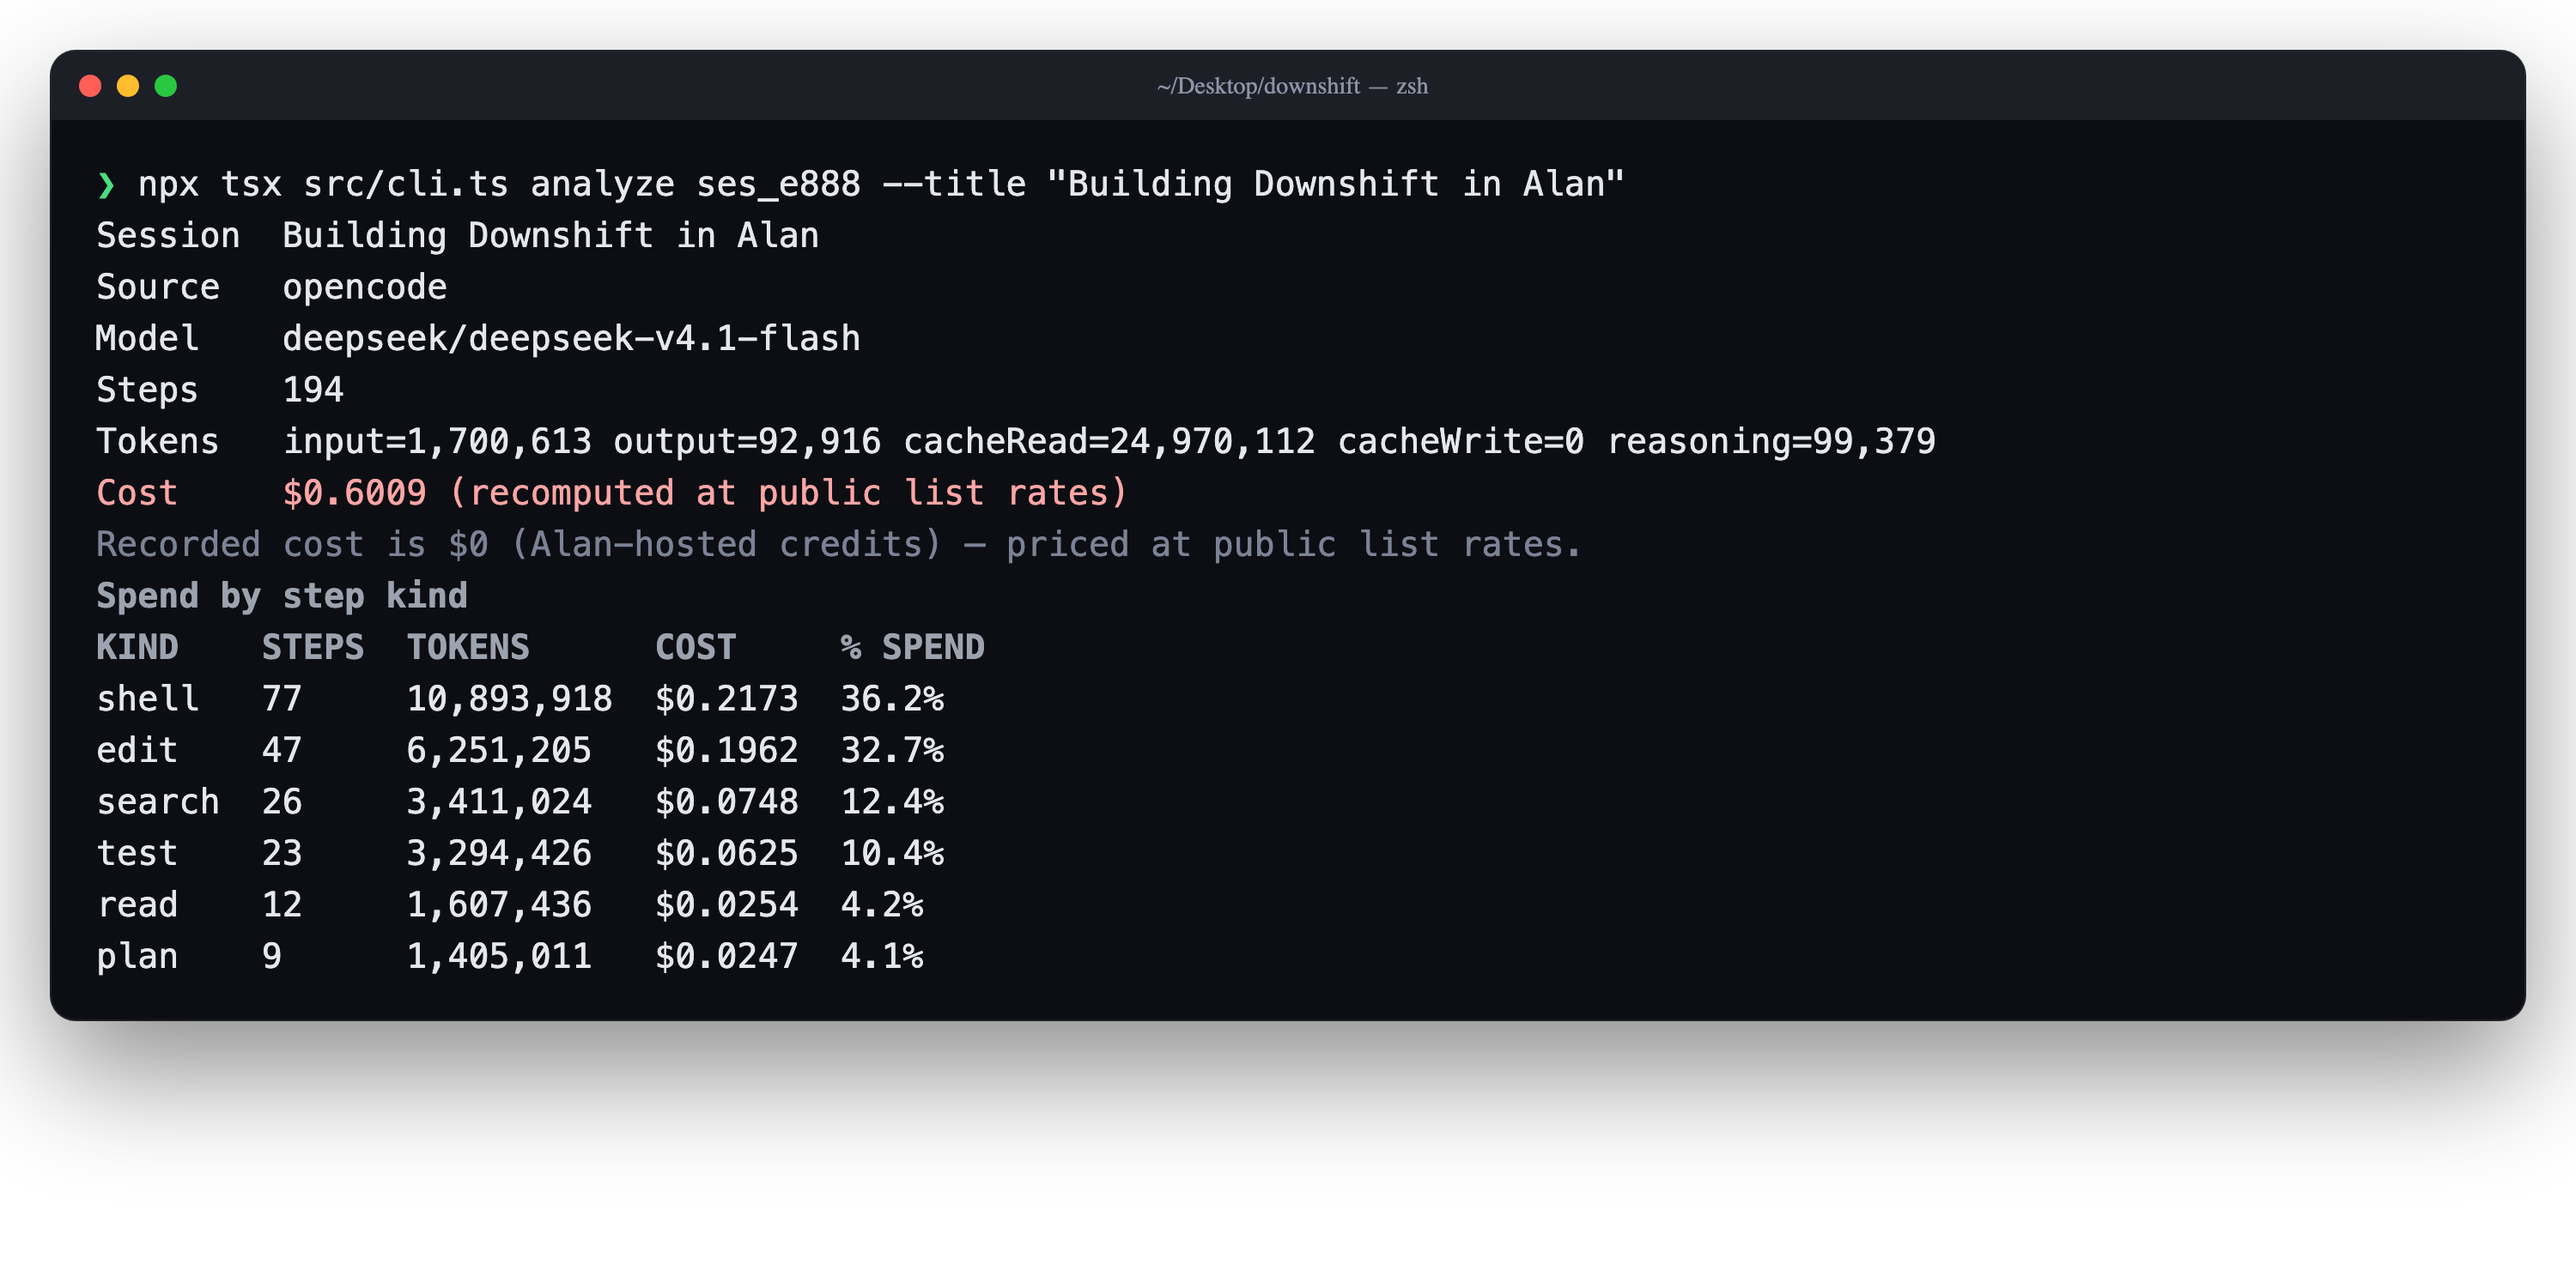
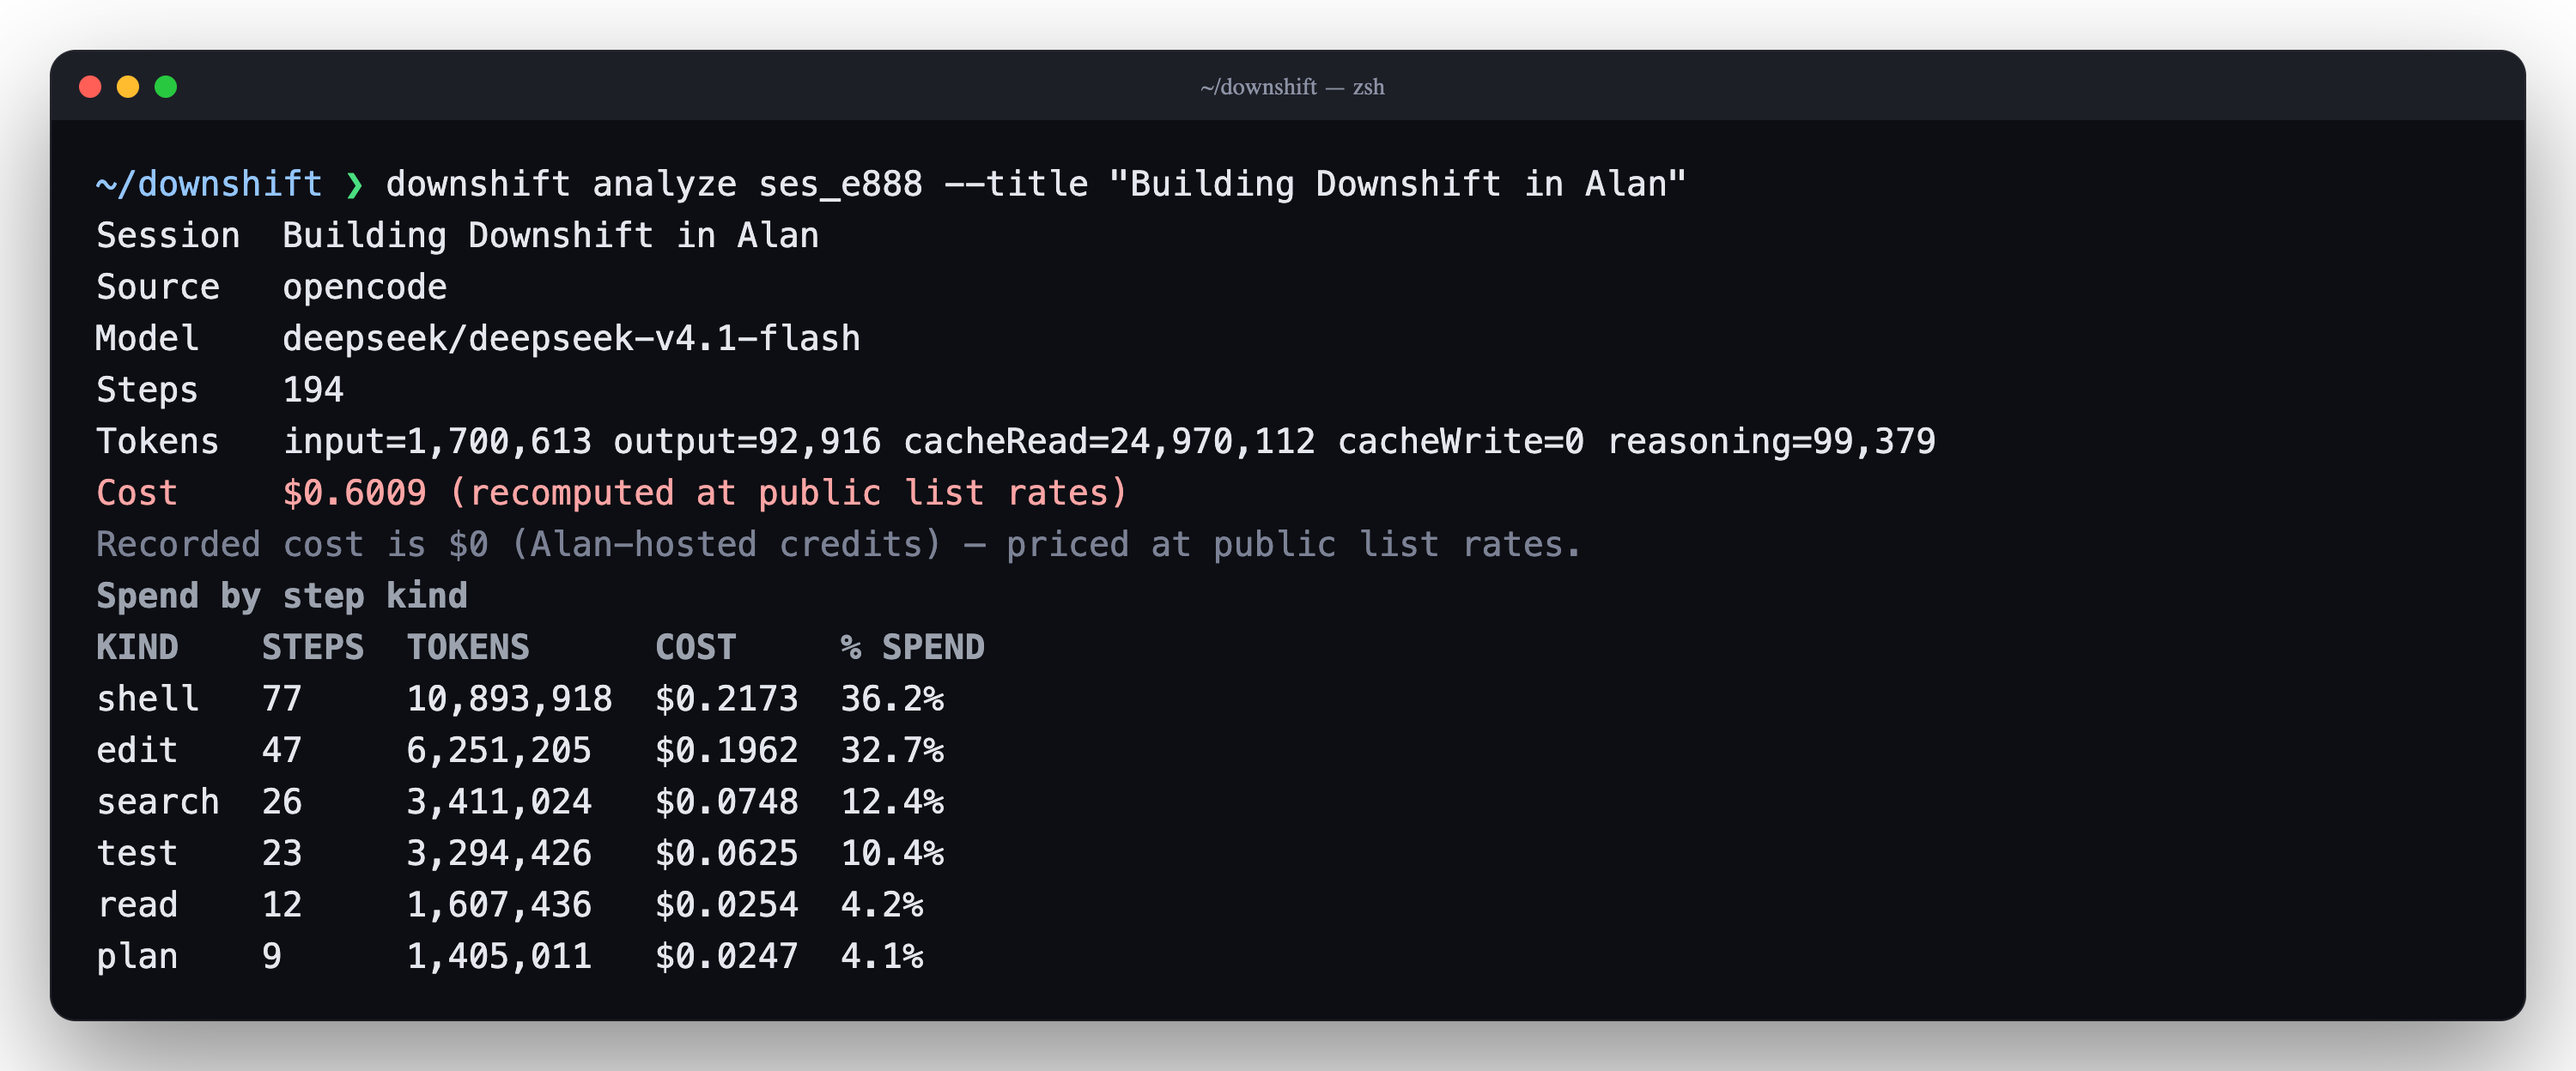
docs: add architecture diagram and more screenshots to README
Replace the ASCII pipeline with an architecture diagram, add a stage
table and the core data model, and add speedscope, replay matrix,
policy and bench screenshots to Results. The terminal screenshot now
shows `downshift analyze` instead of the wrong `npx downshift` command.

Changed region(s): [[0.0, 0.125, 1.0, 1.0], [0.0, 0.0312, 0.992, 0.0938]]

diff --git a/README.md b/README.md
@@ -8,6 +8,15 @@
   <img src="https://img.shields.io/badge/spend-%240-brightgreen" alt="Spend $0">
 </p>
 
+<p align="center">
+  <a href="#demo">Demo</a> ·
+  <a href="#try-it-in-60-seconds">Quickstart</a> ·
+  <a href="#architecture">Architecture</a> ·
+  <a href="#results">Results</a> ·
+  <a href="#commands">Commands</a> ·
+  <a href="#development">Development</a>
+</p>
+
 Downshift finds the steps in a coding-agent session that an open model can
 handle, then proves it by replaying them.
 
@@ -55,37 +64,21 @@ npx github:sakshar2303/downshift analyze latest:alan   # Alan Code
 The `downshift` name on npm belongs to an unrelated React library. Use the
 commands above.
 
-![Cost report](docs/assets/report.png)
+<p align="center"><img src="docs/assets/report.png" alt="Cost report" width="100%"></p>
 
 *The generated cost report: flamegraph, totals and spend by step kind.*
 
-![Terminal output](docs/assets/terminal.png)
+<p align="center"><img src="docs/assets/terminal.png" alt="Terminal output of downshift analyze" width="100%"></p>
 
 *`analyze` prints the same totals before writing the report.*
 
-## How it works
+## Architecture
+
+<p align="center"><img src="docs/assets/architecture.png" alt="Downshift architecture: two transcript sources feed ingest, then analyze, replay, policy and bench" width="100%"></p>
 
 Downshift treats one assistant turn plus the tools it called as the unit of
 analysis. Nothing is instrumented: the input is the transcript the agent already
 writes.
-
-```
- Claude Code JSONL ─┐
-                    ├─► ingest ─► classify ─► price at list rates ─► report.html
- Alan/OpenCode DB ──┘      │             │             │              + speedscope
-                           │             │             └─► per-kind spend map
-                           │             └─► read / search / edit / test / shell / plan
-                           ▼
-                    sampled steps ─► replay on free/local models ─► action match
-                                                                        │
-                                              plan steps only ─► LLM judge
-                                                                        │
-                                                                        ▼
-                                                              downshift.policy.yaml
-                                                                        │
-                                                                        ▼
-                                              speculative bench ─► proof at $0
-```
 
 - **Ingest** parses Claude Code JSONL, or copies and reads the Alan Code /
   OpenCode SQLite database plus its WAL sidecars. Split assistant lines are
@@ -102,6 +95,29 @@ writes.
 - **Speculative bench** runs one task on the big model, the small model and a
   router. The router accepts only small-model reads, searches, listings and test
   commands; everything else escalates, and both calls are priced.
+
+| Stage | Command | Modules | Writes | Calls a model? |
+| --- | --- | --- | --- | --- |
+| Cost map | `analyze` | `ingest/` `classify/` `pricing/` `report/` `flame/` | `downshift-report/report.html`, `flame.speedscope.json`, `steps.json` | No (fetches the public price list) |
+| Replay | `replay` | `replay/` `providers/` `judge/` | `downshift-report/replays.json` | Yes, free or local |
+| Policy | `policy` | `policy/` `report/` | `downshift.policy.yaml`, plus replay and savings sections in `report.html` | No |
+| Bench | `bench` | `bench/` `providers/` `report/` | `downshift-report/bench.json`, plus a proof section in `report.html` | Yes, free or local |
+
+### Core data model
+
+Both readers produce the same shape, defined in `src/types.ts`:
+
+- A **`Session`** has an `id`, a `source` (`claude-code` or `opencode`), an
+  optional `title`, the first user message (kept for replay context) and an
+  ordered list of steps.
+- A **`Step`** is one assistant turn: `model`, `startedAt`, the `tools` it
+  called (each a `ToolCall` with `name`, `input` and optional `output`), its
+  `text`, the `userText` that prompted it, and `isSidechain` for sub-agent turns.
+- **`tokens`** holds `input`, `output`, `cacheRead`, `cacheWrite` and
+  `reasoning`. `recordedCostUsd` is what the transcript claims; `costUsd` is
+  the list-price recomputation.
+- **`kind`** is one of `read`, `search`, `web`, `edit`, `test`, `shell`, `plan`,
+  `delegate` or `other`, set by `classify/`.
 
 ## Results
 
@@ -124,6 +140,12 @@ Alan": 194 steps on `deepseek/deepseek-v4.1-flash`, 26,863,020 tokens
 
 Read + search + test are 61 steps and **27.1%** of the recomputed spend.
 
+<p align="center"><img src="docs/assets/speedscope.png" alt="The session in speedscope" width="100%"></p>
+
+*The same session in speedscope (Left Heavy): phase → kind → step. Load
+[`docs/flame.speedscope.json`](docs/flame.speedscope.json) at
+[speedscope.app](https://www.speedscope.app).*
+
 **Replay and policy — `downshift-report/replays.json`,
 `downshift.policy.yaml`.** 48 replay calls were made: 4 sampled steps per kind on
 each of `ollama:gemma4:latest` and `groq:openai/gpt-oss-120b`. 15 calls failed
@@ -136,6 +158,32 @@ At the policy's 0.9 threshold no kind qualified, so the emitted policy routes
 all six kinds to the frontier model. Its evidence: read 0.5 over 2 samples;
 search, edit, test and shell 0 over 4; plan 0 over 1. Neither free model was a
 safe substitute on this session's sampled steps.
+
+<p align="center"><img src="docs/assets/replay.png" alt="Replay matrix" width="100%"></p>
+
+*Replay matrix from the report: share of sampled steps per kind whose replay
+scored at least 0.8 against the recorded action.*
+
+The start of the emitted `downshift.policy.yaml`:
+
+```yaml
+version: 1
+frontier: deepseek/deepseek-v4.1-flash
+threshold: 0.9
+route:
+  read: frontier
+  search: frontier
+  edit: frontier
+  test: frontier
+  shell: frontier
+  plan: frontier
+evidence:
+  read:
+    model: groq:openai/gpt-oss-120b
+    matchRate: 0.5
+    samples: 2
+  # … evidence for the other kinds
+```
 
 **Speculative bench — `downshift-report/bench.json`.** Task
 `bench/tasks/csv-export`, 2 runs per config, actual spend **$0**.
@@ -153,6 +201,12 @@ the tests passing in both.
 Both failures were local-model request timeouts (`Request timed out.`): the
 second small run and the second downshift run. The sample is 2 runs per config,
 so these pass rates show the harness working rather than a general success rate.
+
+<p align="center"><img src="docs/assets/terminal-bench.png" alt="Terminal output of downshift bench" width="100%"></p>
+
+*The bench run behind these numbers. The router kept the small model's reads,
+searches and test run, and escalated the edit, a text reply and the finish
+step to the big model.*
 
 ## Commands
 
